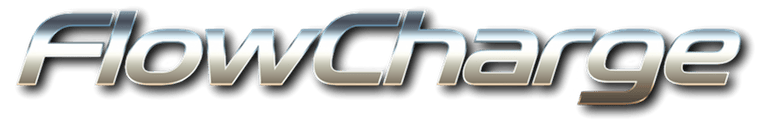
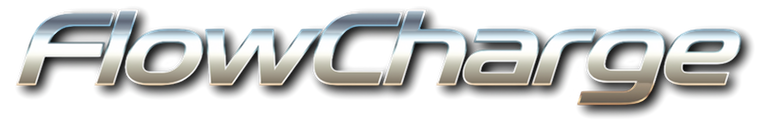
Rebuild the board header as three bars, on the new chrome tokens
Vendor the arrow-mark asset, promote the second-version wordmark onto the existing filename, add eight new chrome tokens plus the toolbar/breadcrumb/info CSS block, and rebuild the board screen's header into three bars matching the approved mockup exactly.

TL-73-r0874s task 1 under WS-70-hvf4cd, from PLN-62-r6bxg3.

Changed region(s): [[0.0312, 0.0726, 0.187, 0.2661], [0.4052, 0.0726, 0.561, 0.2661], [0.7481, 0.6532, 0.8727, 0.8468]]

diff --git a/src/public/styles.css b/src/public/styles.css
@@ -46,6 +46,26 @@
   --accent-on: #FFFFFF;
   --rule-strong: #9A7A56;
 
+  /* Toolbar chrome. --toolbar-bg light is the palette's bronze swatch verbatim.
+     --toolbar-shade is the mix target for hover and active states: darker than
+     the bar in light mode, lighter in dark mode. --tile-bg light is bronze held
+     at H 31.3deg and S 28.1%, with L raised from 49.6% to 61.6%; the literal
+     +3.33-point step was tried first and read as too subtle. --crumb-ink light
+     is the cream #E9E1D5; a darker ink and plain white were both tried and
+     rejected against --tile-bg. --version-fade differs per theme because the
+     same fractional fade reads differently on a near-black bar than on a
+     mid-lightness tan. --toolbar-ink-soft and --toolbar-ink-faint are
+     translucent white here and opaque greys in the dark block; that asymmetry
+     is deliberate and is what the mockups carry. */
+  --toolbar-bg: #A2805B;
+  --toolbar-ink: #FFFFFF;
+  --toolbar-ink-soft: rgba(255,255,255,0.8);
+  --toolbar-ink-faint: rgba(255,255,255,0.55);
+  --toolbar-shade: #000000;
+  --tile-bg: #B99E82;
+  --crumb-ink: #E9E1D5;
+  --version-fade: 0.9;
+
   --st-backlog: #6B7280;
   --st-ready: #2E63A6;
   --st-in-progress: #A8721B;
@@ -91,6 +111,23 @@
   --accent-ink: #D5E0E9;
   --accent-on: #22252E;
   --rule-strong: #A2805B;
+
+  /* Toolbar chrome. --toolbar-bg dark is the original dashboard's page
+     background, and --tile-bg dark is its raised-surface colour.
+     --toolbar-shade flips to white here because the mix target has to be
+     lighter than a near-black bar. --version-fade is lower than the light
+     block's because the same fractional fade reads differently on a near-black
+     bar than on a mid-lightness tan. --toolbar-ink-soft and --toolbar-ink-faint
+     are opaque greys here and translucent white in the light block; that
+     asymmetry is deliberate and is what the mockups carry. */
+  --toolbar-bg: #10141A;
+  --toolbar-ink: #D5E0E9;
+  --toolbar-ink-soft: #9FA8B1;
+  --toolbar-ink-faint: #8D959E;
+  --toolbar-shade: #FFFFFF;
+  --tile-bg: #171D24;
+  --crumb-ink: #D5E0E9;
+  --version-fade: 0.75;
 
   --st-backlog: #9AA3AC;
   --st-ready: #7FADE6;
@@ -139,54 +176,105 @@ a { color: var(--accent); }
 .tab { font-variant-numeric: tabular-nums; }
 button { font-family: inherit; }
 
-/* ---------- Masthead ---------- */
-.masthead {
-  display: flex;
-  align-items: flex-start;
-  justify-content: space-between;
-  gap: 24px;
-  padding: 28px clamp(16px, 4vw, 40px) 18px;
-  border-bottom: 1px solid var(--line);
-  flex-wrap: wrap;
+/* ---------- Toolbar (app chrome) ---------- */
+/* Three stacked bars, not one band. The main bar holds only fixed-width items on
+   both sides, so the centred mark can be positioned absolutely and can never be
+   crowded off-centre. None of the three bars carries a border: they are set apart
+   by their own background colours. */
+.toolbar {
+  position: relative;
+  display: flex; align-items: center; gap: 10px; height: 44px;
+  padding: 0 clamp(10px, 2vw, 16px);
+  background: var(--toolbar-bg);
 }
-.masthead h1 {
-  font-family: var(--font-display);
-  font-size: 30px;
-  font-weight: 600;
-  margin: 0;
-  letter-spacing: 0.2px;
-  text-wrap: balance;
+/* 26px * 1.2 ~= 31px, plus top clearance so it no longer brushes the toolbar edge. */
+.tb-wordmark { display: block; flex: none; height: 31px; width: auto; margin-top: 6px; }
+
+/* The standalone arrow mark, centred like a badge on a car's boot. */
+.tb-mark {
+  position: absolute; left: 50%; top: 50%; transform: translate(-50%, -50%);
+  height: 38px; width: auto;
 }
-.masthead .brand-row { display: flex; align-items: center; gap: 10px; }
-.masthead .wordmark {
-  display: block;
-  height: 62px;
-  width: auto;
+/* The badge is a flourish, not load-bearing information — the first thing to give
+   up the fight for space once the toolbar gets this narrow. */
+@media (max-width: 520px) { .tb-mark { display: none; } }
+
+/* The breadcrumb row: back navigation and the title on the board, the "Projects"
+   label and the version on the home screen. Sits on --tile-bg, so it uses
+   --crumb-ink, not --ink and not --toolbar-ink. */
+.toolbar-crumb {
+  display: flex; align-items: center; gap: 8px; flex-wrap: wrap;
+  min-height: 26px; padding: 4px clamp(10px, 2vw, 16px);
+  background: var(--tile-bg);
 }
-.masthead .brand-divider {
-  flex: none;
-  width: 1px;
-  height: 22px;
-  background: var(--line-strong);
+.tb-back {
+  display: inline-flex; align-items: center; gap: 4px; flex: none;
+  font-size: 12.5px; color: var(--crumb-ink); text-decoration: none;
 }
-.masthead .tagline {
-  font-family: var(--font-mono);
-  font-size: 11px;
-  letter-spacing: 0.08em;
-  text-transform: uppercase;
-  color: var(--ink-faint);
-  margin-top: 4px;
+.tb-back:hover { color: var(--accent); }
+.tb-back:focus-visible { outline: 2px solid var(--accent); outline-offset: 2px; border-radius: 4px; }
+.tb-crumb-sep { flex: none; font-size: 12.5px; color: var(--crumb-ink); opacity: 0.7; }
+/* font-family is explicit because this element is an <h1> on the board screen, and
+   would otherwise inherit --font-display. */
+.tb-title {
+  font-family: var(--font-body);
+  font-size: 13px; font-weight: 600; color: var(--crumb-ink); margin: 0;
+  min-width: 0; white-space: nowrap; overflow: hidden; text-overflow: ellipsis;
 }
-.masthead .meta {
-  text-align: right;
-  font-family: var(--font-mono);
-  font-size: 11.5px;
-  color: var(--ink-soft);
-  line-height: 1.6;
+
+/* The info line, board screen only. Back on normal page tones, since this bar sits
+   on --paper. It wraps instead of hiding: none of it is decorative. */
+.toolbar-sub {
+  display: flex; flex-wrap: wrap; align-items: center; justify-content: flex-end;
+  gap: 6px 12px; min-height: 26px; padding: 4px clamp(10px, 2vw, 16px);
+  background: var(--paper);
 }
-.masthead .meta strong { color: var(--ink); font-weight: 600; }
-.masthead .meta #live-status { color: var(--ink-faint); }
-.masthead .meta #live-status.is-stale { color: var(--sev-high); }
+.tb-meta {
+  display: flex; flex-wrap: wrap; align-items: baseline; row-gap: 2px;
+  font-family: var(--font-mono); font-size: 11px; color: var(--ink-soft);
+}
+.tb-meta strong { color: var(--ink); font-weight: 600; }
+.tb-meta-item:empty { display: none; }
+.tb-meta-item + .tb-meta-item::before { content: "·"; color: var(--ink-faint); margin: 0 6px; }
+.tb-meta #live-status { color: var(--st-done); }
+.tb-meta #live-status.is-stale { color: var(--sev-high); }
+
+.tb-version {
+  flex: none; font-family: var(--font-mono); font-size: 10.5px; white-space: nowrap;
+}
+/* Two homes, two treatments: cream and faded on the tan crumb bar, plain faint ink
+   on the --paper info bar. */
+.toolbar-crumb .tb-version { margin-left: auto; color: var(--crumb-ink); opacity: var(--version-fade); }
+.toolbar-sub .tb-version { color: var(--ink-faint); }
+
+/* Home screen only. Background-only hover: a shade step off --toolbar-bg, never a
+   text-weight or border-colour change, so the button's box never resizes. */
+.tb-button {
+  flex: none; border: 1px solid var(--toolbar-ink-faint); border-radius: 6px;
+  background: transparent; color: var(--toolbar-ink-soft);
+  padding: 3px 10px; font-size: 12px; cursor: pointer;
+}
+.tb-button:hover { background: color-mix(in srgb, var(--toolbar-bg) 90%, var(--toolbar-shade) 10%); color: var(--toolbar-ink); }
+.tb-button:focus-visible { outline: 2px solid var(--toolbar-ink); outline-offset: 2px; }
+
+/* Right-alignment: the first of the right-hand items takes the free space. On the
+   board that is the toggle; on the home screen it is the integrations button, and
+   the toggle then sits immediately beside it. */
+.toolbar .seg { margin-left: auto; flex: none; border-radius: 5px; border-color: var(--toolbar-ink-faint); }
+.toolbar .tb-button { margin-left: auto; }
+.toolbar .tb-button ~ .seg { margin-left: 0; }
+
+/* Icon-only, mirroring the sibling website's sun/moon toggle. A third glyph covers
+   "system", which the website's binary toggle does not have. */
+.toolbar .seg button {
+  display: inline-flex; align-items: center; justify-content: center;
+  width: 26px; height: 22px; padding: 0; background: transparent; color: var(--toolbar-ink-soft);
+  border-right: 1px solid var(--toolbar-ink-faint);
+}
+.toolbar .seg button:last-child { border-right: none; }
+.toolbar .seg button svg { width: 13px; height: 13px; }
+.toolbar .seg button:hover { background: color-mix(in srgb, var(--toolbar-bg) 90%, var(--toolbar-shade) 10%); color: var(--toolbar-ink); }
+.toolbar .seg button.active { background: color-mix(in srgb, var(--toolbar-bg) 90%, var(--toolbar-shade) 10%); color: var(--toolbar-ink); }
 
 /* ---------- KPI strip ---------- */
 .kpi-strip {

diff --git a/src/public/board.html b/src/public/board.html
@@ -9,22 +9,9 @@
 </head>
 <body>
 
-<header class="masthead">
-  <div>
-    <a class="back-link" href="/">← Projects</a>
-    <div class="brand-row">
-      <img class="wordmark" src="img/flowcharge-wordmark.png" alt="FlowCharge" width="770" height="124">
-      <span class="brand-divider" aria-hidden="true"></span>
-      <h1 id="board-title">Board</h1>
-    </div>
-    <div class="tagline">Workstream state</div>
-  </div>
-  <div class="meta">
-    Data generated <strong id="gen-date">—</strong><br>
-    <span id="meta-counts"></span>
-    <span id="branch-line" hidden><br>Branch <strong id="branch-name"></strong></span><br>
-    <span id="live-status"></span>
-  </div>
+<header class="toolbar">
+  <img class="tb-wordmark" src="img/flowcharge-wordmark.png" alt="FlowCharge" width="770" height="124">
+  <img class="tb-mark" src="img/flowcharge-mark.png" alt="" aria-hidden="true" width="1000" height="1000">
   <div class="seg" id="theme-seg" role="group" aria-label="Theme">
     <button type="button" data-mode="system" aria-label="Match system theme" title="System">
       <svg viewBox="0 0 24 24" fill="none" stroke="currentColor" stroke-width="2" stroke-linecap="round" stroke-linejoin="round"><rect x="2" y="4" width="20" height="13" rx="2"/><path d="M8 21h8M12 17v4"/></svg>
@@ -37,6 +24,25 @@
     </button>
   </div>
 </header>
+
+<div class="toolbar-crumb">
+  <a class="tb-back" href="/">
+    <svg width="12" height="12" viewBox="0 0 24 24" fill="none" stroke="currentColor" stroke-width="2.4" aria-hidden="true"><path d="M15 18l-6-6 6-6"/></svg>
+    Projects
+  </a>
+  <span class="tb-crumb-sep" aria-hidden="true">›</span>
+  <h1 class="tb-title" id="board-title">Board</h1>
+</div>
+
+<div class="toolbar-sub">
+  <div class="tb-meta">
+    <span class="tb-meta-item">Generated <strong id="gen-date">—</strong></span>
+    <span class="tb-meta-item" id="meta-counts"></span>
+    <span class="tb-meta-item" id="branch-line" hidden>Branch <strong id="branch-name"></strong></span>
+    <span class="tb-meta-item" id="live-status"></span>
+  </div>
+  <div class="tb-version" id="app-version" hidden></div>
+</div>
 
 <!-- Ships hidden and sits in normal flow as a sibling of everything below it,
      so no innerHTML rebuild on this page can reach it. update-banner.js is the
@@ -105,7 +111,6 @@
   then every few seconds — so an open board keeps showing the project's current state without a reload, with
   nothing to regenerate first.
   “Needs attention” recomputes elapsed days from each artefact's own <code>updated</code> date against your clock.
-  <div id="app-version" hidden></div>
 </footer>
 
 <!-- Card detail modal. No `open` attribute — app.ts calls showModal(). All content
